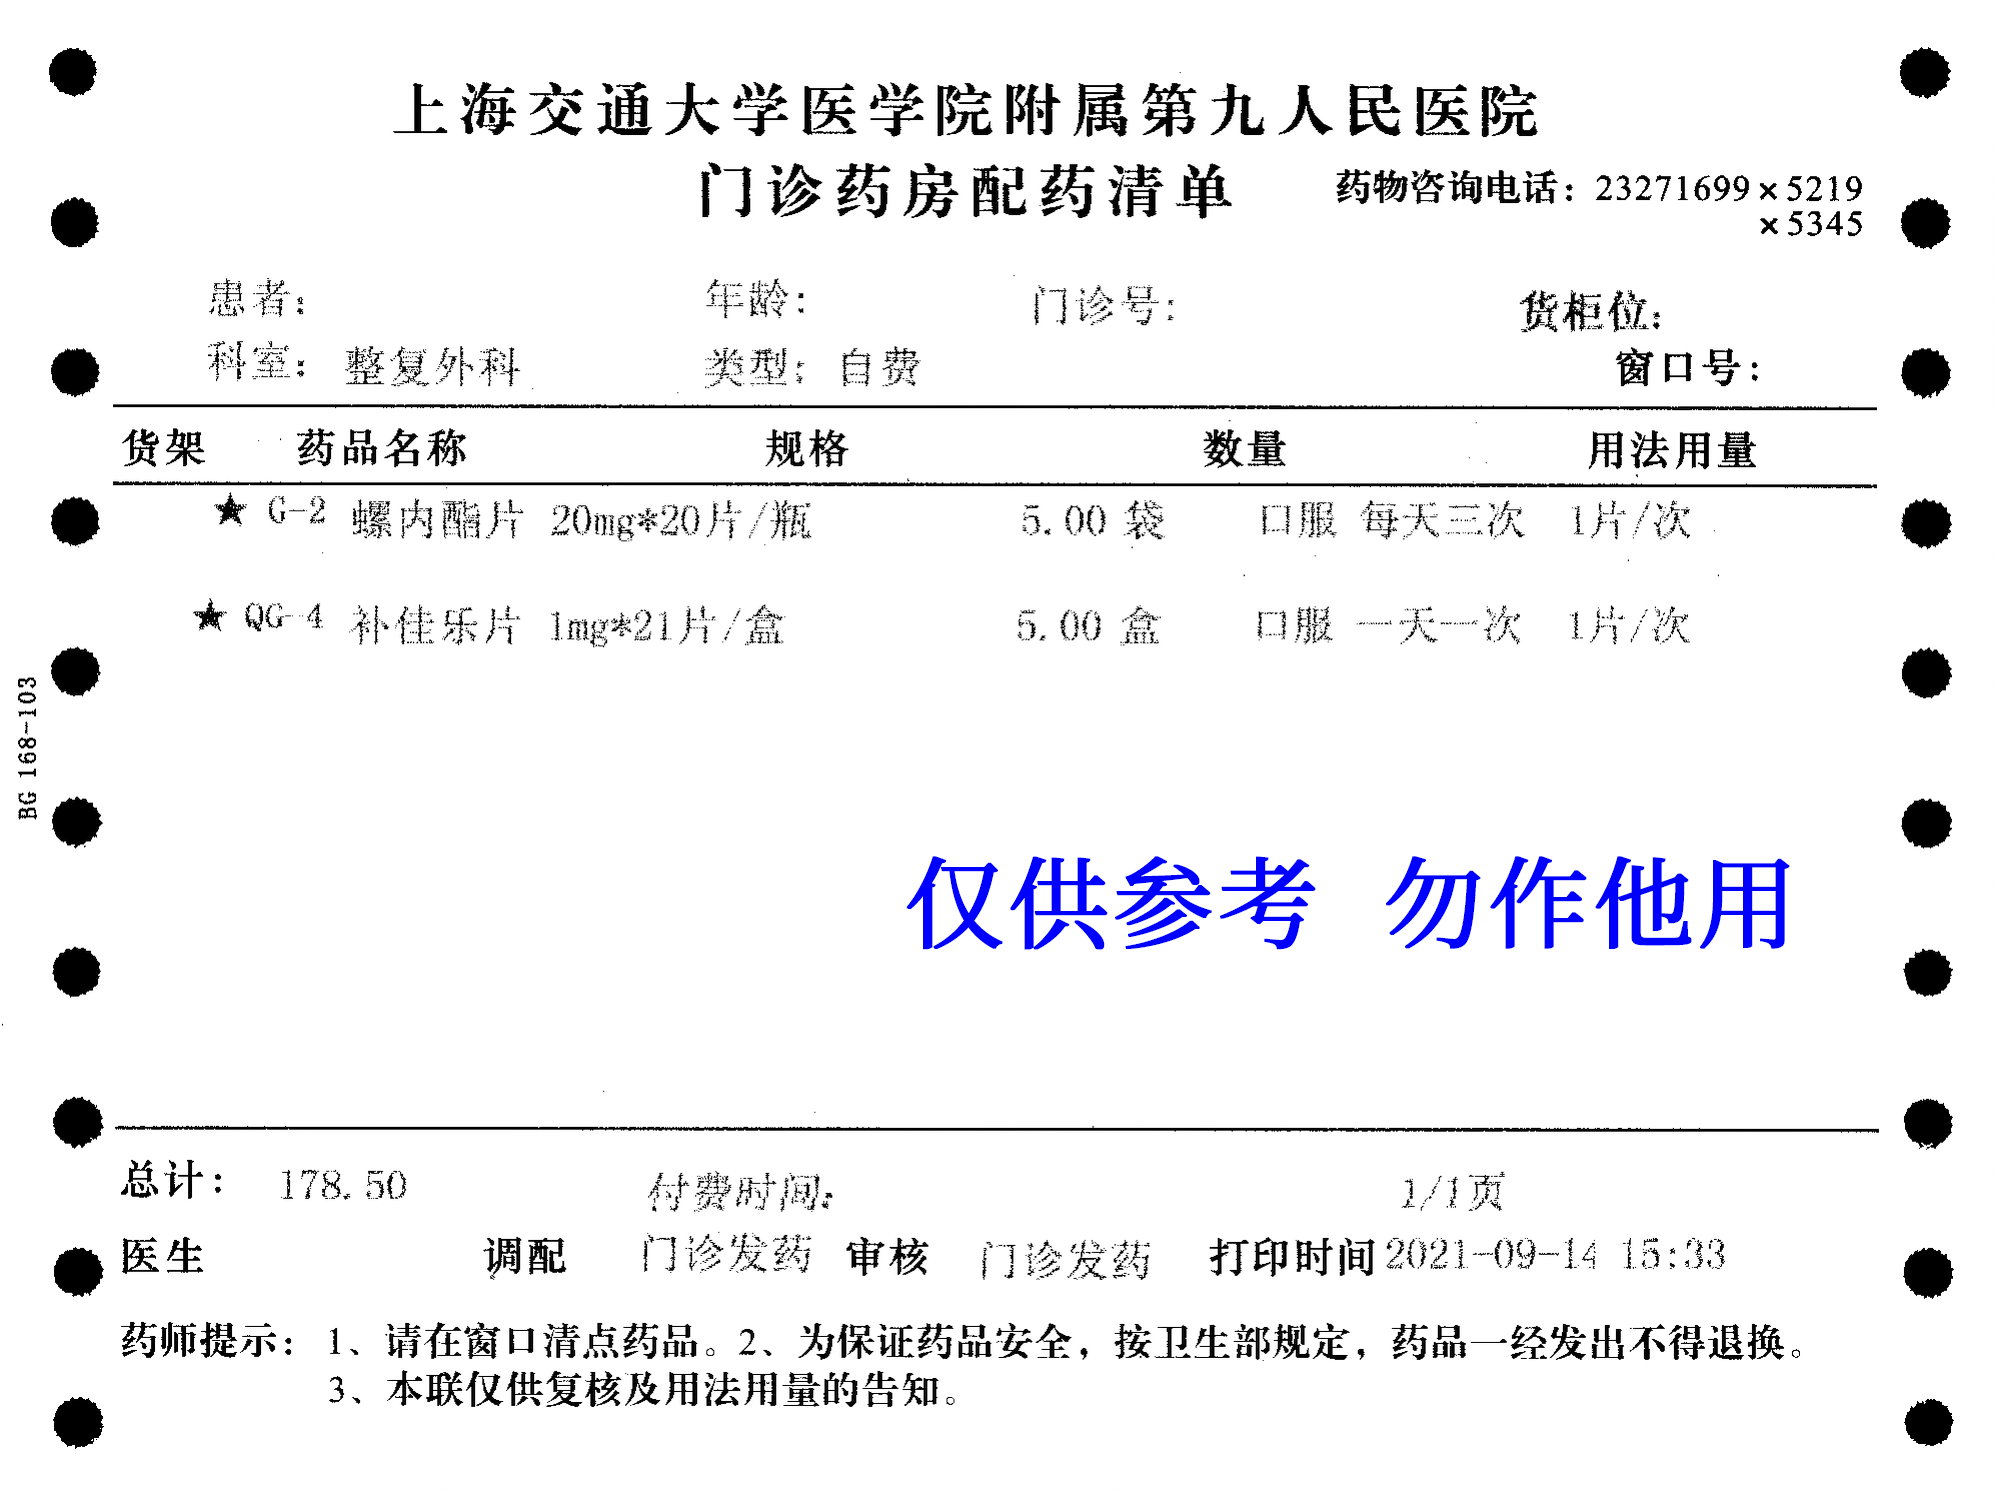
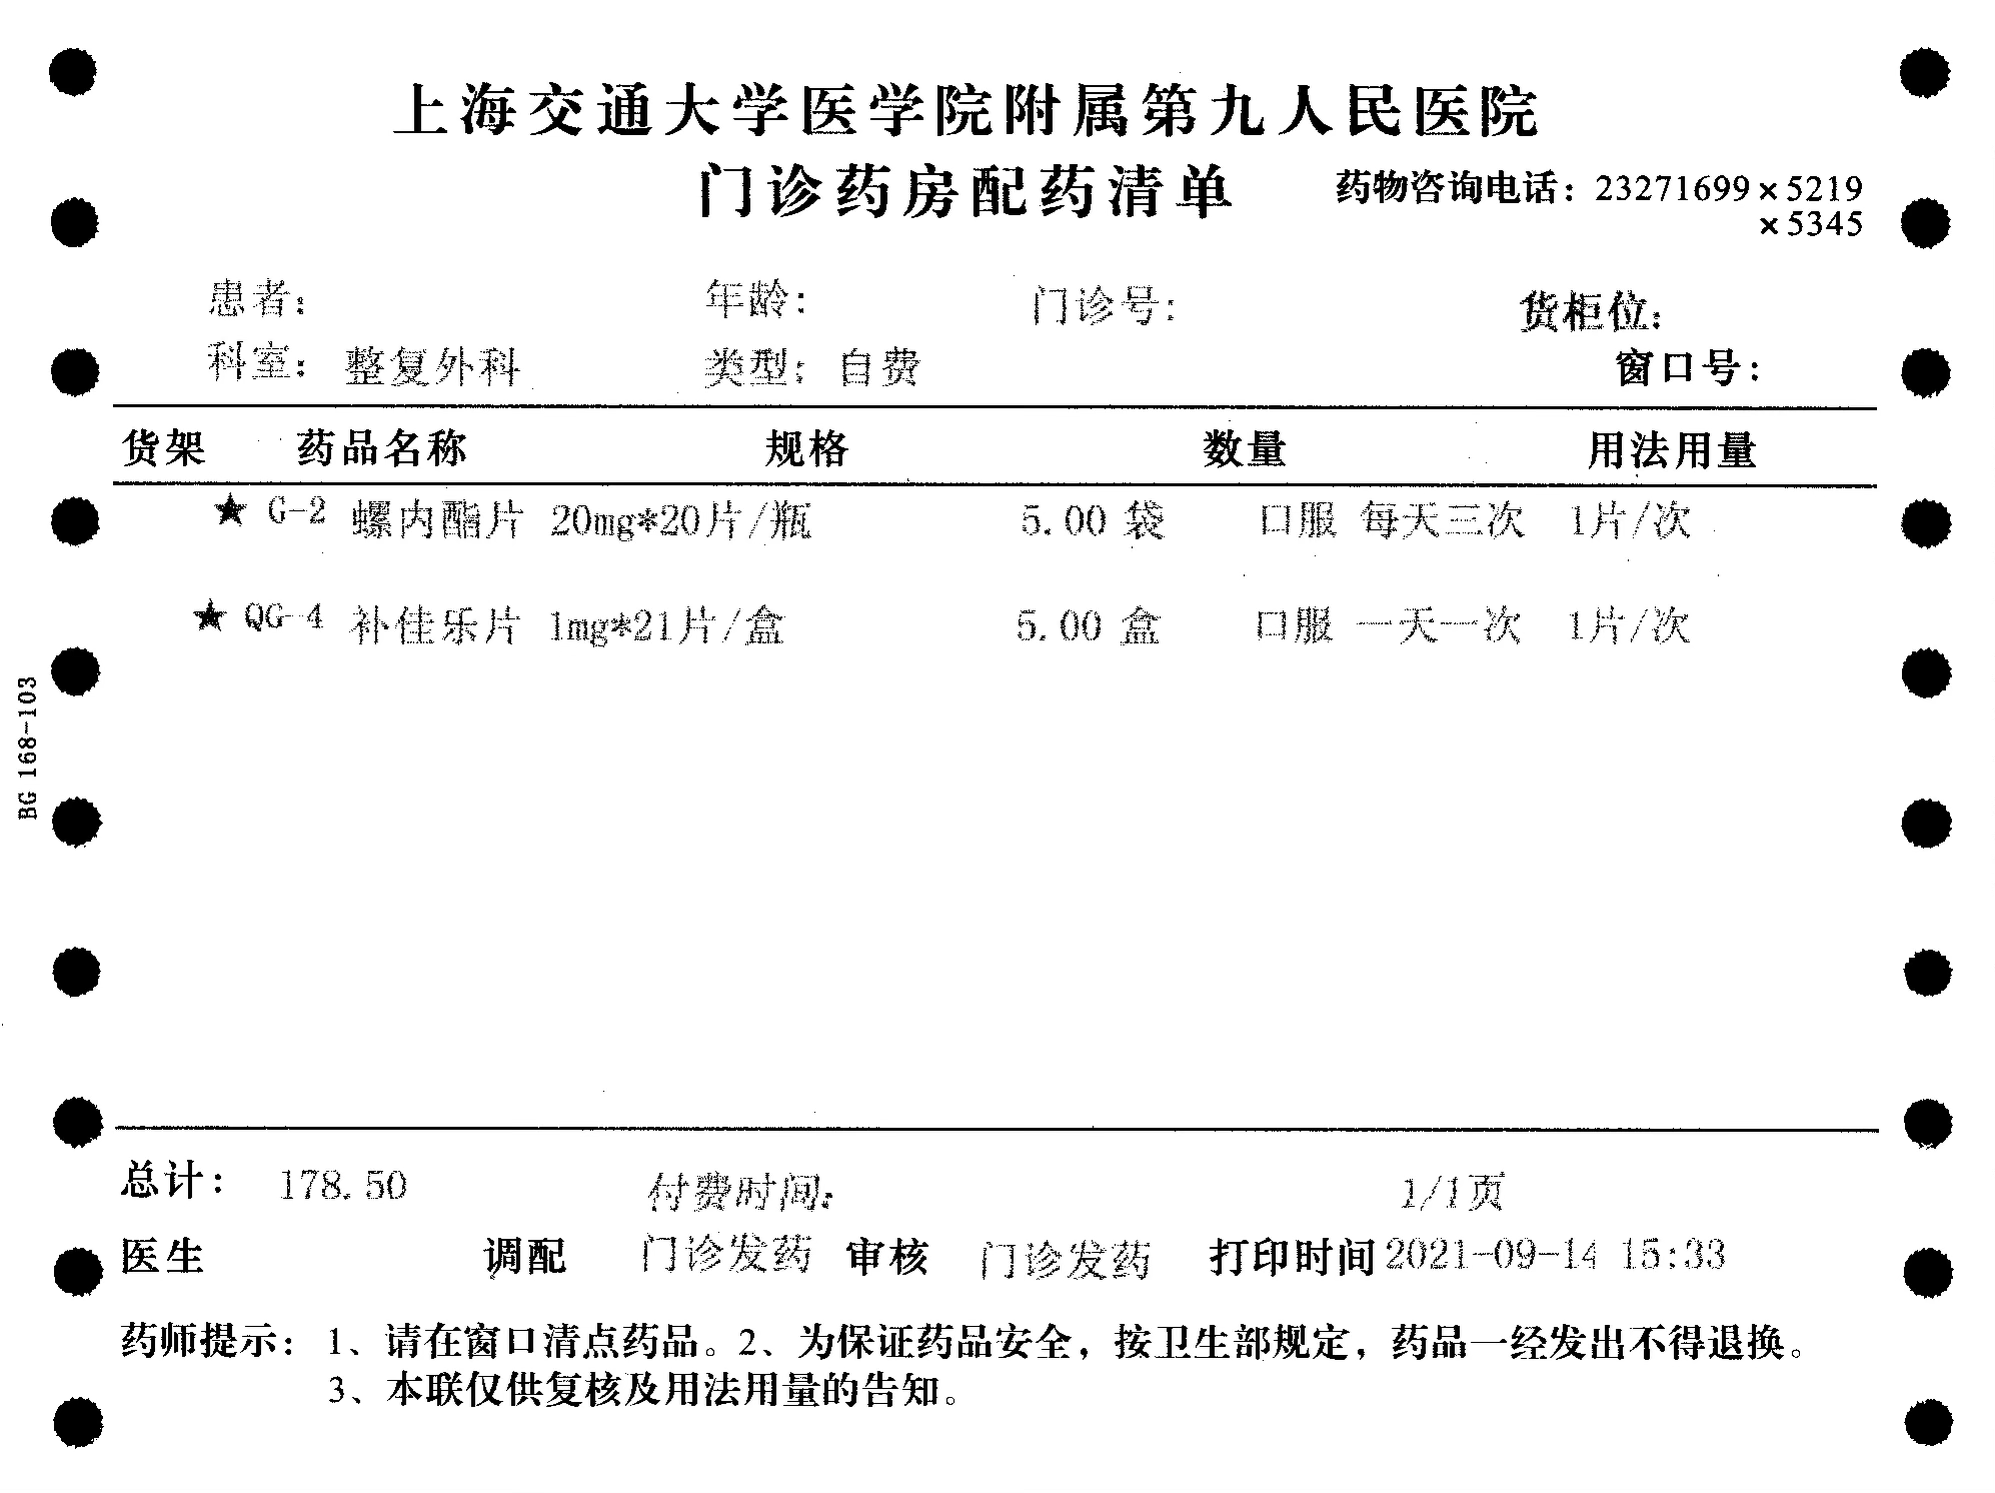
Apply watermark css

diff --git a/content/zh-cn/docs/hrt/shanghai/sh9-hrt/index.md b/content/zh-cn/docs/hrt/shanghai/sh9-hrt/index.md
@@ -48,7 +48,7 @@ slug: sh9
 对于未自行服药者，回去后一定要仔细地看完这份文件，如果还是决定要开展 HRT 的话，下次复诊时需要签好字带过来。
 
 {{< expand "病历" >}}
-![Record](record.webp)
+{{< watermark "record.webp" >}}
 {{< /expand >}}
 
 开检查，把检查全部做完拿到报告之后再去复诊。
@@ -95,7 +95,8 @@ B 超（~~照奶子~~）当场有结果。
 
 {{< expand "配药清单" >}}
 
-{{< gallery pattern="dispensing-list-*" >}}
+{{< watermark "dispensing-list-1.png" >}}
+{{< watermark "dispensing-list-2.jpeg" >}}
 
 备注：2022 年 1 月 8 号更新———现在九院已经愿意提高 HRT 处方上的补佳乐用量至 2mg 了（可能需要特别说明提高的意向才会开）（~~好耶比原来翻了一番~~）
 

diff --git a/content/zh-cn/docs/psyco/hunan/he-ying/index.md b/content/zh-cn/docs/psyco/hunan/he-ying/index.md
@@ -73,22 +73,22 @@ title: 长沙｜贺莹
 
 ### 性别不一致证明
 
-![性别不一致证明](proof.jpg)
+{{< watermark "proof.jpg" >}}
 
 ### 易性症证明
 
-![易性症证明](proof2.jpg)
+{{< watermark "proof2.jpg" >}}
 
 ### 性别烦躁证明
 
-![性别烦躁证明](proof3.jpg)
+{{< watermark "proof3.jpg" >}}
 
 ## 病历部分
 
 ### 以前的手写病历
 
-![手写病历](record.jpg)
+{{< watermark "record.jpg" >}}
 
 ### 现在的电子病历
 
-![电子病历](record2.jpg)
+{{< watermark "record2.jpg" >}}

diff --git a/content/zh-cn/docs/psyco/jiangsu/cao-qiuyun/index.md b/content/zh-cn/docs/psyco/jiangsu/cao-qiuyun/index.md
@@ -67,10 +67,10 @@ title: 南京｜曹秋云
 ## 证明样式 {#proof}
 
 诊断证明：
-![诊断证明](proof.jpg)
+{{< watermark "proof.jpg" >}}
 
 病历样例（16 岁）：
-![病历样例](record.jpg)
+{{< watermark "record.jpg" >}}
 
 病历样例（19 岁）：
-![病历样例2](record2.jpg)
+{{< watermark "record2.jpg" >}}

diff --git a/content/zh-cn/docs/psyco/zhejiang/zheng-tiansheng/index.md b/content/zh-cn/docs/psyco/zhejiang/zheng-tiansheng/index.md
@@ -38,11 +38,11 @@ title: 温州｜郑天生
 ## 证明样式
 
 {{< expand "观察期病历样本" >}}
-![病历](record.jpg)
+{{< watermark "record.jpg" >}}
 {{< /expand >}}
 
 {{< expand "观察期后诊断证明样本" >}}
-![证明](proof.jpg)
+{{< watermark "proof.jpg" >}}
 {{< /expand >}}
 
 ## 出诊时刻表

diff --git a/content/zh-cn/docs/psyco/beijing/bhlgh/niu-yajuan/index.md b/content/zh-cn/docs/psyco/beijing/bhlgh/niu-yajuan/index.md
@@ -83,7 +83,7 @@ title: 牛雅娟
 
 ## 病历样式
 
-![病历](proof.jpg)
+{{< watermark "proof.jpg" >}}
 
 备注：编者贴出检查报告的原因是为了证明牛老师那里其实心理问题对于开证明的影响不大（？）
 

diff --git a/content/zh-cn/docs/psyco/beijing/tang-hongyu/index.md b/content/zh-cn/docs/psyco/beijing/tang-hongyu/index.md
@@ -33,7 +33,7 @@ title: 北京｜唐宏宇
 
 诊断名称与最新的 ICD-11 标准接轨，在括号内提供向下兼容，参见下图。
 
-![证明](proof.jpg)
+{{< watermark "proof.jpg" >}}
 
 ## 出诊时刻表
 

diff --git a/content/zh-cn/docs/psyco/shanghai/shmhc/index.md b/content/zh-cn/docs/psyco/shanghai/shmhc/index.md
@@ -55,7 +55,7 @@ P.S. 实际上只要去就诊就会在系统里有「易性症」的诊断病历
 
 ## 证明样式 {#proof}
 
-![证明](proof.jpg)
+{{< watermark "proof.jpg" >}}
 
 ## 「四宫格」 {#self-review}
 

diff --git a/content/zh-cn/docs/hrt/puth/liu-ye/index.md b/content/zh-cn/docs/hrt/puth/liu-ye/index.md
@@ -49,6 +49,6 @@ aliases:
 
 ## 处方与用药建议
 
-![处方](prescription.jpg)
+{{< watermark "prescription.jpg" 处方 >}}
 
-![用药建议](medication.jpg)
+{{< watermark "medication.jpg" 用药建议 >}}

diff --git a/content/zh-cn/docs/hrt/zhou-jianying/index.md b/content/zh-cn/docs/hrt/zhou-jianying/index.md
@@ -37,8 +37,9 @@ weight: 500
 
 ## 处方例子
 
-![色](fx1.png)
-![补](fx2.png)
+{{< watermark "fx1.png" >}}
+{{< watermark "fx2.png" >}}
+
 ## 参考来源
 
 - <https://zhuanlan.zhihu.com/p/346909177>

diff --git a/content/zh-cn/docs/psyco/liaoning/liu-hong/index.md b/content/zh-cn/docs/psyco/liaoning/liu-hong/index.md
@@ -44,8 +44,8 @@ title: 大连｜刘宏
 
 ## 病历样式
 
-![病历](bingli.png)
+{{< watermark "bingli.png" >}}
 
 ## 证明样式
 
-![证明](certificate.jpg)
+{{< watermark "certificate.jpg" >}}

diff --git a/content/zh-cn/docs/psyco/guangdong/zhao-suhua/index.md b/content/zh-cn/docs/psyco/guangdong/zhao-suhua/index.md
@@ -39,4 +39,4 @@ title: 广州医科大学附属脑科医院｜赵素华
 
 医生会开出一张病历，和一张诊疗证明
 
-![证明](proof.jpg)
+{{< watermark "proof.jpg" >}}
